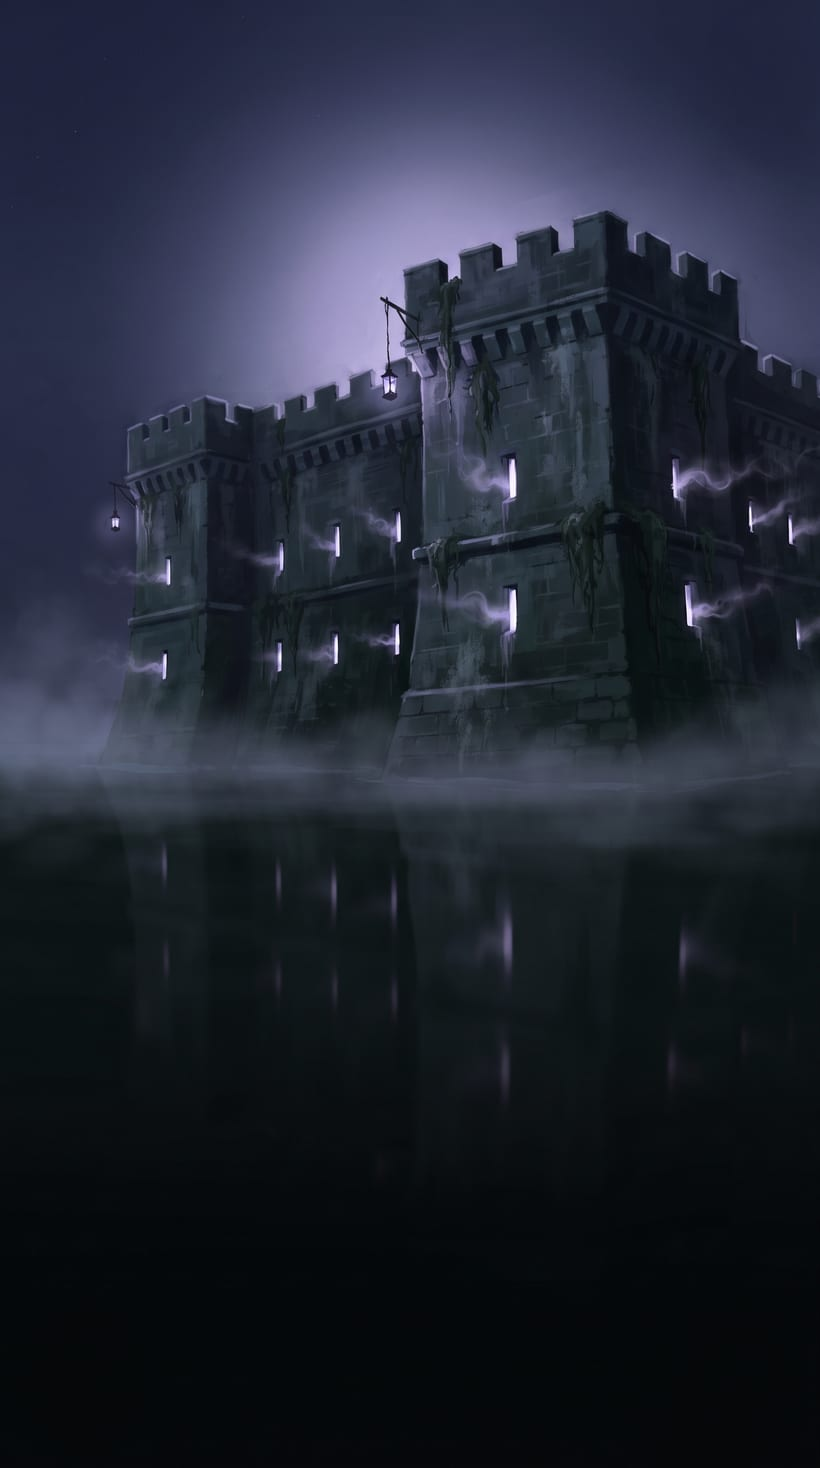
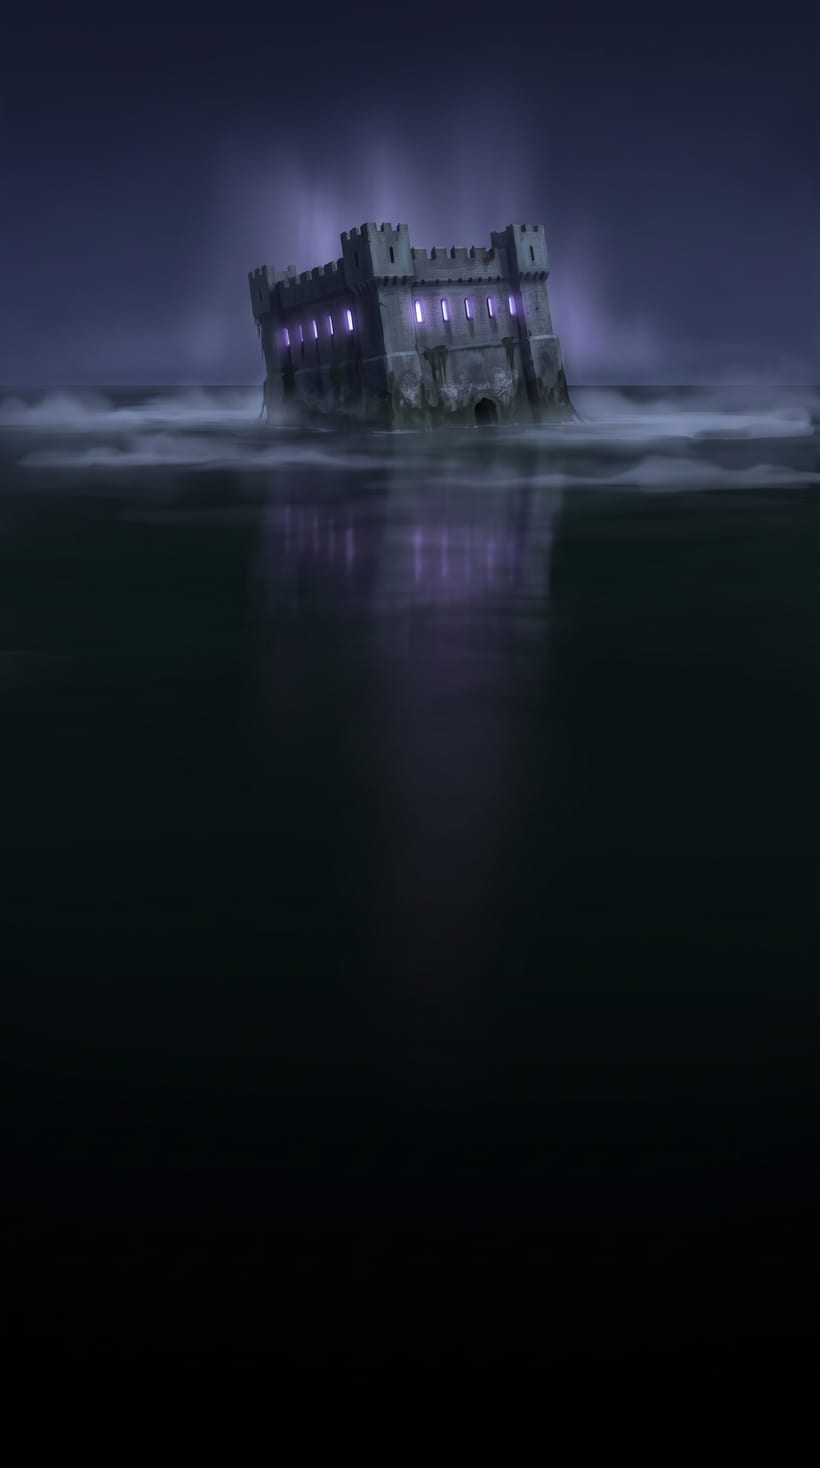
Ghost backdrop: horizon up to 30%, and the rule written down
You were right and there is a number behind it. The enemy ship is absolutely
positioned at `top: 42%`, and the code that puts it there already says "sits in
the water (below the horizon)". My plate had the waterline at 52%, so the ship
was drawn against masonry with the sea starting below its keel. Floating.

Regenerated with the fortress small and distant on a high horizon: waterline at
~30%, the lower two thirds open water, still glassy and mirror-still so it
keeps the dead-calm read that separates him from the Quartermaster's storm.
Checked by drawing the ship's actual rect over the plate before committing,
which is now the cheap way to test this.

Wrote the constraint into a header above both backdrop maps, with the 42% and
why, since nothing anywhere stated it and I would not have missed it if it had.

AUDITED THE OTHER EIGHTEEN. The rule holds everywhere else; every campaign
plate puts its horizon at or above the line, several of them right on it.

One to know about rather than fix: finn_bg2 has the drowned cathedral's spires
rising straight through where the ship sits. It does not read as floating,
because the whole scene is submerged and nothing in it is sitting on a surface,
and that plate was chosen deliberately for card readability (there is a comment
about bg2 vs bg6). Leaving it, flagging it.

diff --git a/web/lib/bossRaids.ts b/web/lib/bossRaids.ts
@@ -599,6 +599,28 @@ export const RAID_ZONE_BG: Record<NonNullable<BossRaidConfig['zone']>, string> =
   ancient_deep: '/ancient.jpg',
 }
 
+// ── COMPOSITION RULE FOR EVERY BACKDROP BELOW ───────────────────────────────
+// THE HORIZON MUST SIT ABOVE 42% OF THE IMAGE HEIGHT.
+//
+// Not a style note, a hard constraint. The enemy ship is absolutely positioned
+// at `top: 42%` (RaidCombat, "sits in the water (below the horizon)") and runs
+// about 16% of the screen from there, on the right-hand side. Put the waterline
+// any lower and the ship is drawn against sky, or against whatever building is
+// standing there, and it reads as floating in mid-air.
+//
+// So: subject up top, waterline high, and the whole lower two thirds open water.
+// A cliff or a distant structure BEHIND the ship is fine, since the ship is
+// still sitting on a sea surface that starts above it. What is not fine is the
+// sea surface itself starting below 42%.
+//
+// The first pass at the Ghost's plate put a fortress across the middle of the
+// frame with the waterline at 52%, which is exactly the failure this describes.
+//
+// Also: near-black and uncluttered at the very bottom, where the player's ship,
+// the action buttons and the log sit. RaidGame lays a 0.4 → 0.82 dark gradient
+// over the whole thing, so a plate that is already dark at the foot stays
+// readable rather than turning to mud.
+//
 // Per-raid campaign battle backdrop, keyed to each boss's story LOCATION, so
 // every campaign raid reads as its own place (Pete's sunset cove, the Tollmaster's
 // strait, Ruse's black-market harbor, the Don's abyssal throne, etc.) instead of
